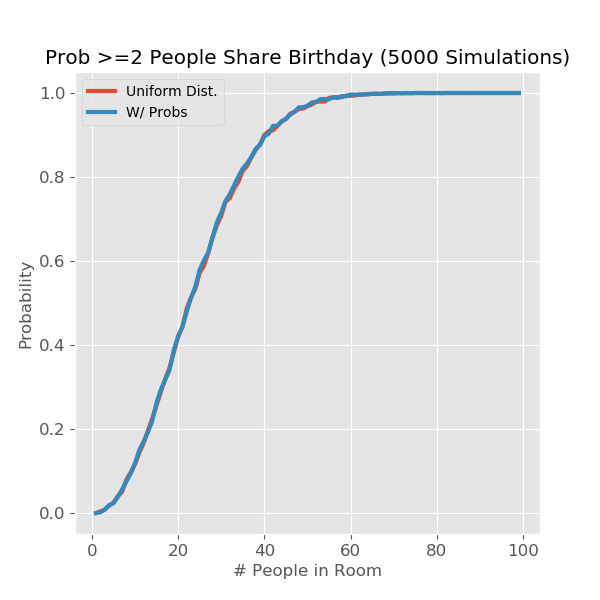
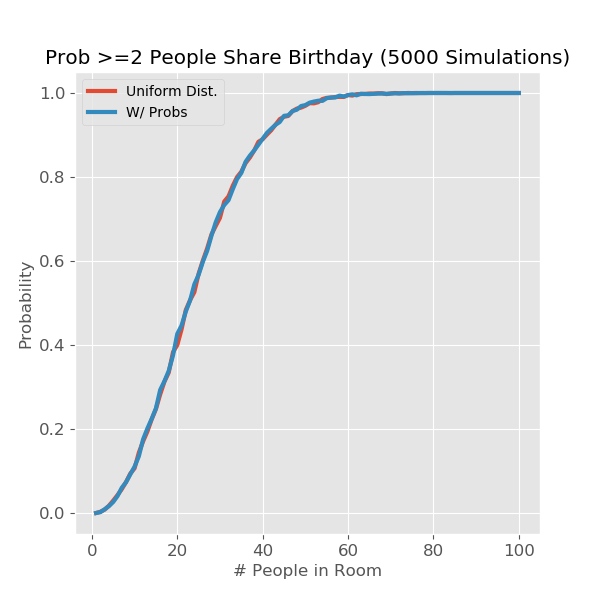
Update README, add image, reduce some duplication in script

diff --git a/src/birthday_puzzle.py b/src/birthday_puzzle.py
@@ -39,37 +39,38 @@ def prob_shared_birthday(N_in_room, N_simulations=5000, probs=None):
     p_gte3 = np.mean(np.array(n_gte3)>0)
     return (p_gte2, p_gte3)
 
-plt_size = (6,6)
 
 if __name__=='__main__':
 
-
+    plt_size = (6,6)
     N_sims = 5000
+    room_sizes = list(range(1,101))
 
-    p2=[]
-    p3=[]
-    for N_in_room in range(1,100):
+    # Simulate w/ uniform distribution of birthdays
+    p2_unif = []
+    p3_unif = []
+    for N_in_room in room_sizes:
         p_gte2, p_gte3 = prob_shared_birthday(N_in_room, N_simulations=N_sims)
-        p2.append(p_gte2)
-        p3.append(p_gte3)
+        p2_unif.append(p_gte2)
+        p3_unif.append(p_gte3)
     
     fig, ax = plt.subplots(1, figsize=plt_size)
-    ax.plot(list(range(1,100)), p2, linewidth=3)
+    ax.plot(room_sizes, p2_unif, linewidth=3)
     ax.set_xlabel('# People in Room')
     ax.set_ylabel('Probability')
     ax.set_title('Prob. >=2 People Share Birthday (' + str(N_sims) + ' Simulations)')
     plt.savefig('./images/p_gte2_vs_N_uniform.png')
 
     fig, ax = plt.subplots(1, figsize=plt_size)
-    ax.plot(list(range(1,100)), p2, linewidth=3, label='>=2')
-    ax.plot(list(range(1,100)), p3, linewidth=3, label='>=3')
+    ax.plot(room_sizes, p2_unif, linewidth=3, label='>=2')
+    ax.plot(room_sizes, p3_unif, linewidth=3, label='>=3')
     ax.set_xlabel('# People in Room')
     ax.set_ylabel('Probability')
     ax.legend()
     ax.set_title('Prob >=N People Share Birthday (' + str(N_sims) + ' Simulations)')
     plt.savefig('./images/p_gte2_gte3_vs_N_uniform.png')
     
-
+    # Load actual birth data
     df_births = pd.read_csv('./data/US_births_2000-2014_SSA.csv')
     df_births.drop(['day_of_week'], axis=1, inplace=True)
     df_births.rename( columns={'date_of_month':'day'},inplace=True)
@@ -106,26 +107,22 @@ if __name__=='__main__':
     ax.legend()
     plt.savefig('images/birth_prob_vs_yday.png')
 
-    # Run simulations w/ uniform distribution and actual probs
-    p1=[]
-    for N_in_room in range(1,100):
-        p_gte2, p_gte3 = prob_shared_birthday(N_in_room, N_simulations=N_sims, probs=None)
-        p1.append(p_gte2)
-
-    p2=[]
-    for N_in_room in range(1,100):
+    # Run simulations w/ actual probs
+    p2_prob=[]
+    for N_in_room in room_sizes:
         p_gte2, p_gte3 = prob_shared_birthday(N_in_room, N_simulations=N_sims, probs = df_gb_yday['birth_prob'].values)
-        p2.append(p_gte2)
+        p2_prob.append(p_gte2)
 
     fig, ax = plt.subplots(1, figsize=plt_size)
-    ax.plot(list(range(1,100)), p1, linewidth=3, label='Uniform Dist.')
-    ax.plot(list(range(1,100)), p2, linewidth=3, label='W/ Probs')
+    ax.plot(room_sizes, p2_unif, linewidth=3, label='Uniform Dist.')
+    ax.plot(room_sizes, p2_prob, linewidth=3, label='W/ Probs')
     ax.set_xlabel('# People in Room')
     ax.set_ylabel('Probability')
     ax.legend()
     ax.set_title('Prob >=2 People Share Birthday (' + str(N_sims) + ' Simulations)')
     plt.savefig('images/p_gte2_vs_N_uniform_actual.png')
 
+    # Create a fake prob. distribution with larger differences to test if there is an effect
     ydays = np.arange(1,366)
     test_probs = np.sin(ydays/120)
     test_probs = test_probs/np.sum(test_probs)
@@ -137,14 +134,15 @@ if __name__=='__main__':
     ax.set_title('Fake Probability Distribution')
     plt.savefig('images/fake_birth_prob_vs_yday.png')
 
-    p3=[]
-    for N_in_room in range(1,100):
+    # Run simulations w/ fake probs
+    p2_fake=[]
+    for N_in_room in room_sizes:
         p_gte2, p_gte3 = prob_shared_birthday(N_in_room, N_simulations=N_sims, probs = test_probs)
-        p3.append(p_gte2)
+        p2_fake.append(p_gte2)
 
     fig, ax = plt.subplots(1, figsize=plt_size)
-    ax.plot(list(range(1,100)), p1, linewidth=3, label='Uniform Dist.')
-    ax.plot(list(range(1,100)), p3, linewidth=3, label='W/ Fake Probs')
+    ax.plot(room_sizes, p2_unif, linewidth=3, label='Uniform Dist.')
+    ax.plot(room_sizes, p2_fake, linewidth=3, label='W/ Fake Probs')
     ax.set_xlabel('# People in Room')
     ax.set_ylabel('Probability')
     ax.legend()

diff --git a/README.md b/README.md
@@ -1,5 +1,7 @@
 # Birthday-Puzzle-Paradox
-Simulation of the Birthday Puzzle Problem in Python, including real birth data.
+Simulation of the Birthday Puzzle Problem in Python, including real birth data. Hopefully you find it interesting; feel free to contact me with any questions/comments/suggestions/errors!
+
+<img src="images/cake.jpg" width="250" height="250" />
 
 ## Introduction
 The ['Birthday Puzzle'](https://en.wikipedia.org/wiki/Birthday_problem) can be stated as follows: If a room contains N people, what is the probability that at least 2 people will share the same birthday? It has been shown that (assuming all birthdays are equally likely) the probability reaches 50% with a room size of 23 people. Intuitively (at least to me), it seems surprising that the probability is so high with only 23 people; hence the 'paradox'. 
@@ -8,7 +10,7 @@ I'll first use a simulation-based approach in python to solve the traditional pr
 
 
 ## Solution Assuming Uniform Distribution of Birthdays
-- Assume all birthdays are equally likely. This can be represented by a uniform distribution from 1 to 365 (ignoring leap years). We can sample from this distribution in python using *numpy.random.randint*.
+- Assume all birthdays are equally likely. This can be represented by a uniform distribution from 1 to 365 (ignoring leap years). We can sample from this distribution in python using *numpy.random.choice*. We could also use *numpy.random.randint* here, but *numpy.random.choice* gives the option of passing in an array of probabilities, which I will use later on.
 - For a given number of people in the room (*N_in_room*), draw a random sample of size *N_in_room* with replacement and check if any values occur more than once (i'll use the handy *Counter* function from the *collections* module to count the number of times each value occurs).
 - Repeat this sampling process many times, then calculate the percent of times we get at least one duplicate; this is interpreted as the probability of getting at least one match for that room size.
 - Repeat the above process for different *N_in_room* values, and plot the probabilities versus *N_in_room*.
@@ -28,7 +30,7 @@ In the above solution, we assumed that all birthdays were equally likely; but th
 The approach to solving the problem is the same as before, _except_ we assign a probability based on birth data to each day, instead of assuming a uniform distribution. I used [data on US births from 2000-2014 compiled by FiveThirtyEight](https://github.com/fivethirtyeight/data/tree/master/births), which I learned of from this [blog post](http://thedailyviz.com/2016/09/17/how-common-is-your-birthday-dailyviz/). 
 
 First I summed births by month and day and visualized the results with a heatmap, producing a plot similar to those in the two blog posts mentioned above. The main takeaways are:
-- There is a seasonal pattern: there tend to be more births in September +/- a month. You can do the math and see what that infers about when babies are _conceived_.
+- There is a definite seasonal pattern: there tend to be more births in September +/- a month. You can do the math and see what that infers about when babies are _conceived_.
 - There tend to be many less births on or close to major holidays (Thanksgiving, Christmas, New Year's, July 4th). I'm not sure if this is more due to people not wanting to give birth on holidays, or doctors not wanting to work/not available on holidays. But I thought it was interesting that it implies that in a large percentage of pregnancies, there is some leeway/choice (at least a day or two) of when exactly to give birth.
 
 ![](images/births_heatmap.png)
@@ -38,18 +40,29 @@ Next, to calculate the probability of being born for each day I:
 
 - Kept only data from non-leap years
 - Turned dates into yeardays (1-365) and summed births over each yearday
-- Divided those values by the total number of births over all days to calculate probabilities, which sum to 1. 
+- Divided those values by the total number of births over all days to calculate the probabilities for each day (which sum to 1). 
 
 These probabilities are shown in the following figure, as well as the uniform probability (1/365) indicated by the horizontal line. Although the true probabilities are definitely not uniform, the difference in magnitude isn't that large.
 
 ![](images/birth_prob_vs_yday.png)
 
-Intuitively, I expected that using the actual probabilities would increase the probability. However, running the simulation again using the actual probabilities, I found that the results really weren't affected significantly. 
+Intuitively, I expected that using the actual probabilities would increase the probability of having a shared birthday. However, running the simulation again using the actual probabilities, I found that the results really weren't affected significantly: 
 
 ![](images/p_gte2_vs_N_uniform_actual.png)
 
-To test whether my intuition (and/or code) was correct, I created a fake probability distribution with a similar but more drastic seasonal peak and ran the simulations again. This time the curve is indeed shifted to the left, meaning the probability of 2 people sharing a birthday for a given room size is increased (though still not by that much).
-
+To test whether my intuition (and/or code) was correct, I created a fake probability distribution with a similar but more drastic seasonal peak:
 ![](images/fake_birth_prob_vs_yday.png)
 
+After re-running the simulation with this probability distribution, the curve is indeed shifted to the left, meaning the probability of 2 people sharing a birthday for a given room size is increased (though still not by that much):
+
 ![](images/p_gte2_vs_N_uniform_fakeprobs.png)
+
+
+## Conclusions
+- A simulation based solution to the Birthday Puzzle in python is simple and allows us to easily answer other variants of the question. It also allows us to test the effect of different probability distributions of birthdates.
+- Data show that US birth rates have a non-uniform distribution; there tend to be more births around September, and less births on/near major holidays.
+- However, it appears that the differences in birth rates throughout the year are not large enough to signficantly affect the results assuming a uniform distribution.
+
+## Reproducibility
+
+All the data and code necessary to reproduce this analysis is contained in this github repo. Just run */src/birthday_puzzle.py* to produce all the figures.
